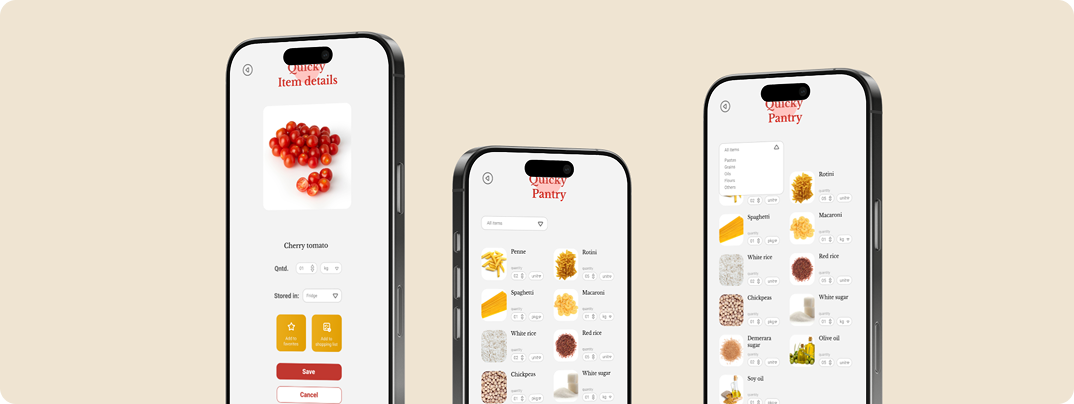
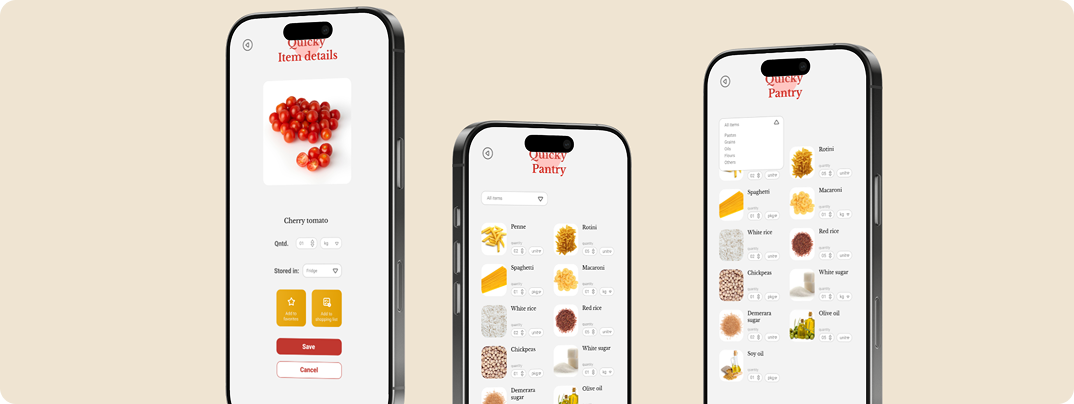
Mobile project

diff --git a/site.css b/site.css
@@ -295,10 +295,57 @@ body {
   top:-18vw;
   left: 9vw;
   font-size: clamp(20px, 9.09vw, 40px);
-
 }
 
+.background-blue {
+  position: relative;
+  background-color: #363D59;
+  border-radius: 16px;
+  margin-left: auto;
+  margin-right: auto;
+  width: 90.45vw;
+  height: 175.91vw;
+  margin-top: -3vw;
+  overflow: hidden;
+  display: flex;
+  align-items: flex-start;
+  justify-content: center;
+  padding-bottom: 14vw;
+  z-index: -3;
+}
 
+.project-picture{
+  width: 80vw;
+  max-width: 80vw;
+  height: 155.22vw;
+  margin-top: 10.27vw;
+  position: relative;
+  z-index: 1;
+  left:5vw;
+}
+
+.tech-stack{
+  position: relative;
+  top: -172vw;
+  left: 66.36vw;
+  display: flex;
+  flex-direction: column; 
+  gap: 2.72vw;
+}
+
+.tech-stack-skills{
+  background-color: #FFEBB0;
+  border-radius: 16px;
+  border: 4px solid #FFF7E0;
+  box-sizing: border-box;
+  display: flex;
+  justify-content: center;
+  align-items: center;
+  text-align: center;
+  height: 9.1vw;
+  width: 20vw;
+  box-sizing: content-box;
+  }
 
 }
 
@@ -611,7 +658,7 @@ body {
   display: flex;
   align-items: flex-start;
   justify-content: center;
-  padding-bottom: 14vw; /* Add this line for extra space under */
+  padding-bottom: 14vw; 
 }
 
 .project-picture {

diff --git a/index.html b/index.html
@@ -122,7 +122,10 @@
             <button class="triangle-arrow prev-arrow"></button>
             <button class="triangle-arrow next-arrow"></button>
             <div class="project-picture">
-                <img src="quickly.png" alt="Quickly Project"/>
+                <picture>
+                    <source srcset="quickly-mobile.png" media="(max-width: 768px)">
+                    <img src="quickly.png" alt="Quickly Project"/>
+                </picture>
                 <div class="tech-stack">
                     <span class="paragraph tech-stack-skills">.NET</span>
                     <span class="paragraph tech-stack-skills">SQL</span>
